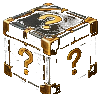
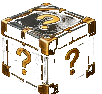
fix(taiqiuxcx): clean extracted ui asset crops

diff --git a/docs/dev-log.md b/docs/dev-log.md
@@ -107,3 +107,15 @@
   - 删除代码绘制的箱盖、锁扣、箱体结构。
   - 使用 `/assets/ui-kit/reward-crate-normal.png` 与 `/assets/ui-kit/reward-crate-sprint.png`。
   - 根据当前奖励阶段自动切换普通宝箱 / 冲刺宝箱。
+
+### UI Kit 第六轮：抠图质量返工
+
+- 用户反馈：上一版图片没有抠干净，部分素材截图不完整。
+- 根因：
+  - 从整张资产板手动估坐标裁切，容易带入相邻素材和分割线。
+  - 只看黑底预览不够，黑色背景会掩盖透明边缘脏线。
+- 调整：
+  - 收紧宝箱、结算徽章、段位卡等裁切框，去掉右侧竖线残留。
+  - 抠图脚本每次生成前先清空 `miniprogram/assets/ui-kit/*.png`，避免旧资产残留。
+  - 之后检查抠图必须同时看黑底预览和棋盘格透明预览。
+- 当前正式保留 15 个资产；星级小星星边缘暂不合格，先不纳入正式资产库。
